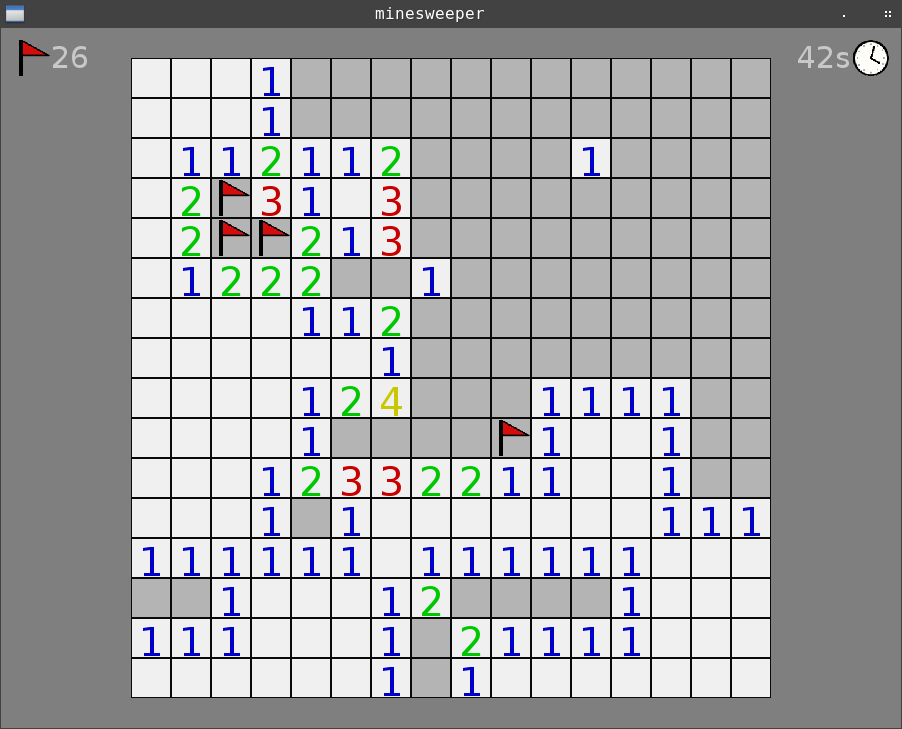
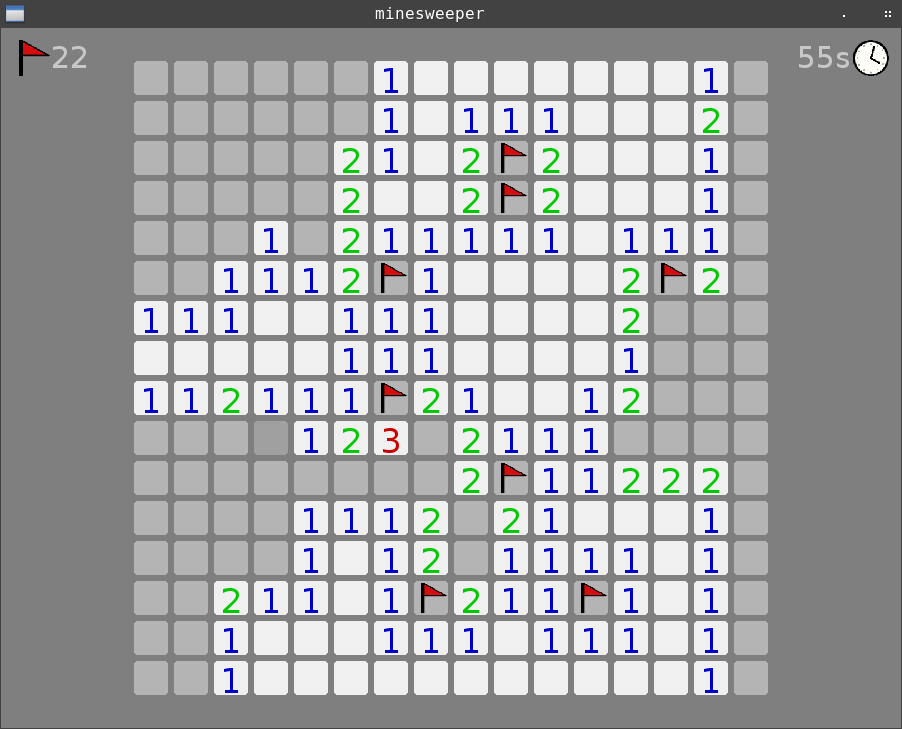
Add padding between grid cells, draw cells with rounded borders, and darken background colour of cells on hover

diff --git a/src/graphics.c b/src/graphics.c
@@ -20,6 +20,10 @@
 // The vertical space between the text and the sides of the button
 #define BUTTON_PADDING 30
 
+// The radius for the rounded rectangle drawn for a cell as percentage
+// (100% = Circle)
+#define GRID_CELL_RADIUS 0.25
+
 // The number of images used in the application
 #define IMAGE_COUNT 2
 
@@ -176,6 +180,22 @@ ALLEGRO_BITMAP *get_bitmap(char *name) {
 }
 
 /*
+ * Calculate the coordinates of the corners of the rectangle for a cell.
+ * Note that this is the coordinates of the visible part, i.e. not including
+ * padding
+ */
+void get_cell_rect(struct Game *game, int x, int y, int *x1, int *y1, int *x2,
+                   int *y2) {
+
+    *x1 = game->x_padding + x * (game->cell_size + 2 * game->cell_padding)
+          + game->cell_padding;
+    *y1 = game->y_padding + y * (game->cell_size + 2 * game->cell_padding)
+          + game->cell_padding;
+    *x2 = *x1 + game->cell_size;
+    *y2 = *y1 + game->cell_size;
+}
+
+/*
  * Draw an individual cell to the screen
  */
 void draw_cell(struct Game *game, int x, int y, int hovered) {
@@ -212,30 +232,36 @@ void draw_cell(struct Game *game, int x, int y, int hovered) {
             text = value + '0';
     }
 
-    float sx = game->x_padding + game->cell_size * x;
-    float sy = game->y_padding + game->cell_size * y;
+    // Make the cell background colour a bit darker if the cell is being hovered
+    if (hovered) {
+        unsigned char r, g, b;
+        al_unmap_rgb(cell_colour, &r, &g, &b);
+        int delta = -20;
+        r += delta;
+        g += delta;
+        b += delta;
+
+        cell_colour = al_map_rgb(r, g, b);
+    }
+
+    int dx1, dy1, dx2, dy2;
+    get_cell_rect(game, x, y, &dx1, &dy1, &dx2, &dy2);
 
     // Draw cell background colour
-    al_draw_filled_rectangle(sx, sy, sx + game->cell_size, sy + game->cell_size,
-                             cell_colour);
-
-    // Draw cell border
-    float line_width = hovered ? 2 : 1;
-    al_draw_rectangle(sx + line_width / 2, sy + line_width / 2,
-                      sx + game->cell_size - line_width / 2,
-                      sy + game->cell_size - line_width / 2,
-                      line_colour, line_width);
+    float radius = 0.5 * game->cell_size * GRID_CELL_RADIUS;
+    al_draw_filled_rounded_rectangle(dx1, dy1, dx2, dy2, radius, radius,
+                                     cell_colour);
 
     // Draw text if text has been specified
     if (text != 0) {
         char string[] = {text};
-        al_draw_text(cell_font, text_colour, sx + 0.5 * game->cell_size, sy,
+        al_draw_text(cell_font, text_colour, 0.5 * (dx1 + dx2), dy1,
                      ALLEGRO_ALIGN_CENTRE, string);
     }
 
     // Draw an image if image_name has been set
     if (strlen(image_name) > 0) {
-        draw_image(image_name, sx, sy, game->cell_size, game->cell_size);
+        draw_image(image_name, dx1, dy1, dx2 - dx1, dy2 - dy1);
     }
 }
 
@@ -371,17 +397,25 @@ int get_clicked_cell(struct Game *game, int mouse_x, int mouse_y, int *x_ptr,
     int y_offset = mouse_y - game->y_padding;
 
     // If the click was within the grid area...
-    if (x_offset >= 0 && x_offset < game->width * game->cell_size &&
-        y_offset >= 0 && y_offset < game->height * game->cell_size) {
+    float total_cell_size = game->cell_size + 2 * game->cell_padding;
+    if (x_offset >= 0 && x_offset < game->width * total_cell_size &&
+        y_offset >= 0 && y_offset < game->height * total_cell_size) {
 
-        *x_ptr = x_offset / game->cell_size;
-        *y_ptr = y_offset / game->cell_size;
+        int x = x_offset / total_cell_size;
+        int y = y_offset / total_cell_size;
 
-        return 1;
+        // Check that the mouse is actually within the cell, not within the
+        // padding around the cell
+        int x1, y1, x2, y2;
+        get_cell_rect(game, x, y, &x1, &y1, &x2, &y2);
+        if (mouse_x >= x1 && mouse_x <= x2 && mouse_y >= y1 && mouse_y <= y2) {
+            *x_ptr = x;
+            *y_ptr = y;
+            return 1;
+        }
     }
-    else {
-        return 0;
-    }
+
+    return 0;
 }
 
 /*

diff --git a/src/minesweeper.c b/src/minesweeper.c
@@ -102,7 +102,8 @@ int adjacent_mines(struct Game *game, int x, int y) {
  * otherwise
  */
 int init_game(struct Game *game, int width, int height, int mine_count,
-              int display_width, int display_height, int padding) {
+              int display_width, int display_height, int grid_padding,
+              float cell_padding) {
 
     // Initialise the grid
     if (width < 1 || width > MAX_WIDTH || height < 1 || height > MAX_HEIGHT) {
@@ -145,13 +146,18 @@ int init_game(struct Game *game, int width, int height, int mine_count,
         }
     }
 
-    // Calculate cell width in px and grid offset
-    float x = (float) (display_width - 2 * padding) / game->width;
-    float y = (float) (display_height - 2 * padding) / game->height;
-    game->cell_size = (x < y ? x : y);
+    // Calculate cell width and padding in px
+    float x = (float) (display_width - 2 * grid_padding) / game->width;
+    float y = (float) (display_height - 2 * grid_padding) / game->height;
+    float total_size = (x < y ? x : y);
 
-    game->x_padding = (display_width - game->cell_size * game->width) / 2;
-    game->y_padding = (display_height - game->cell_size * game->height) / 2;
+    // cell_padding is a percentage of total cell size
+    game->cell_padding = total_size * cell_padding;
+    game->cell_size = total_size - 2 * game->cell_padding;
+
+    // Work out grid offsets
+    game->x_padding = (display_width - total_size * game->width) / 2;
+    game->y_padding = (display_height - total_size * game->height) / 2;
 
     game->timestamp = time(NULL);
 

diff --git a/src/minesweeper.h b/src/minesweeper.h
@@ -20,6 +20,11 @@ struct Game {
     int flags_remaining;
 
     float cell_size;  // The width/height of each cell in px
+
+    // The padding between the visible area of cells and the actual border
+    // between cells
+    float cell_padding;
+
     float x_padding;  // The x offset of the grid in px
     float y_padding;  // The y offset of the grid in px
 
@@ -28,7 +33,8 @@ struct Game {
 };
 
 int init_game(struct Game *game, int width, int height, int mine_count,
-              int display_width, int display_height, int padding);
+              int display_width, int display_height, int grid_padding,
+              float cell_padding);
 void reveal_neighobouring_cells(struct Game *game, int x, int y);
 void reveal_cell(struct Game *game, int x, int y);
 int won_game(struct Game *game);

diff --git a/src/main.c b/src/main.c
@@ -193,7 +193,7 @@ void change_app_state(struct App *app, enum AppState new_state,
         if (init_game(&(app->game), params.game_settings.width,
                       params.game_settings.height,
                       params.game_settings.mine_count, DISPLAY_WIDTH,
-                      DISPLAY_HEIGHT, GRID_PADDING)) {
+                      DISPLAY_HEIGHT, GRID_PADDING, CELL_PADDING)) {
 
             draw_background();
             draw_game(&(app->game));

diff --git a/src/graphics.h b/src/graphics.h
@@ -7,6 +7,11 @@
 // The minimum padding between the game grid and the edges of the display
 #define GRID_PADDING 30
 
+// The amount of padding between the visible edge of a cell and the actual
+// border (i.e. where gridlines would be). This is expressed as a percentage
+// of total cell width/height
+#define CELL_PADDING 0.075
+
 struct Button {
     char label[MAX_BUTTON_LENGTH];
 
